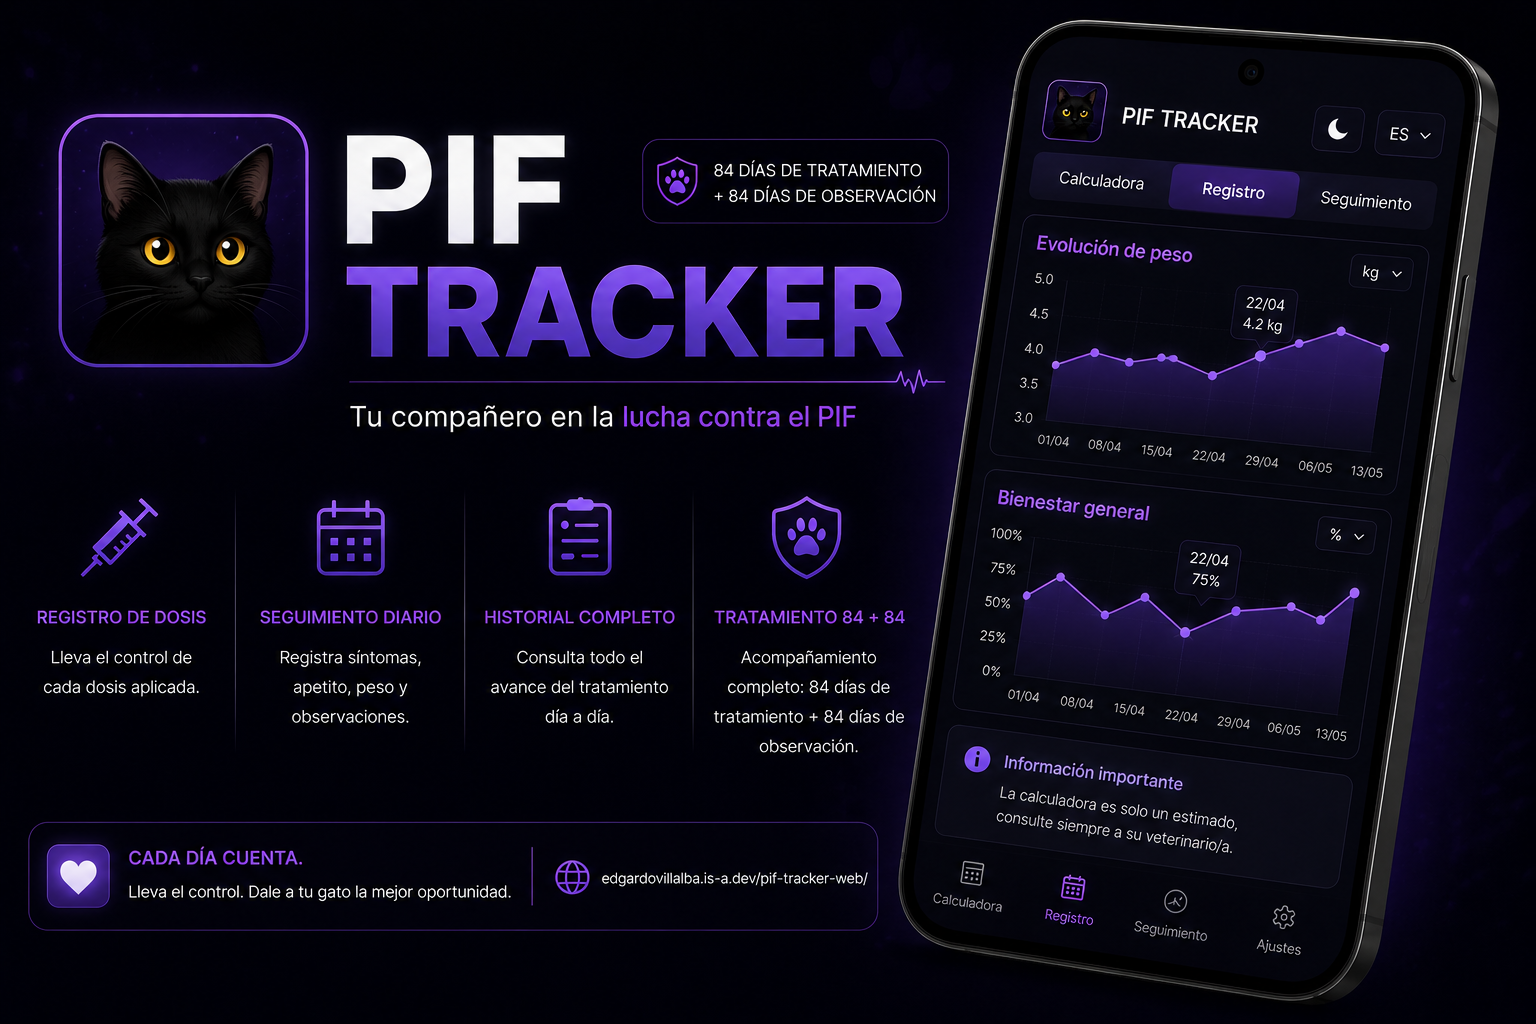
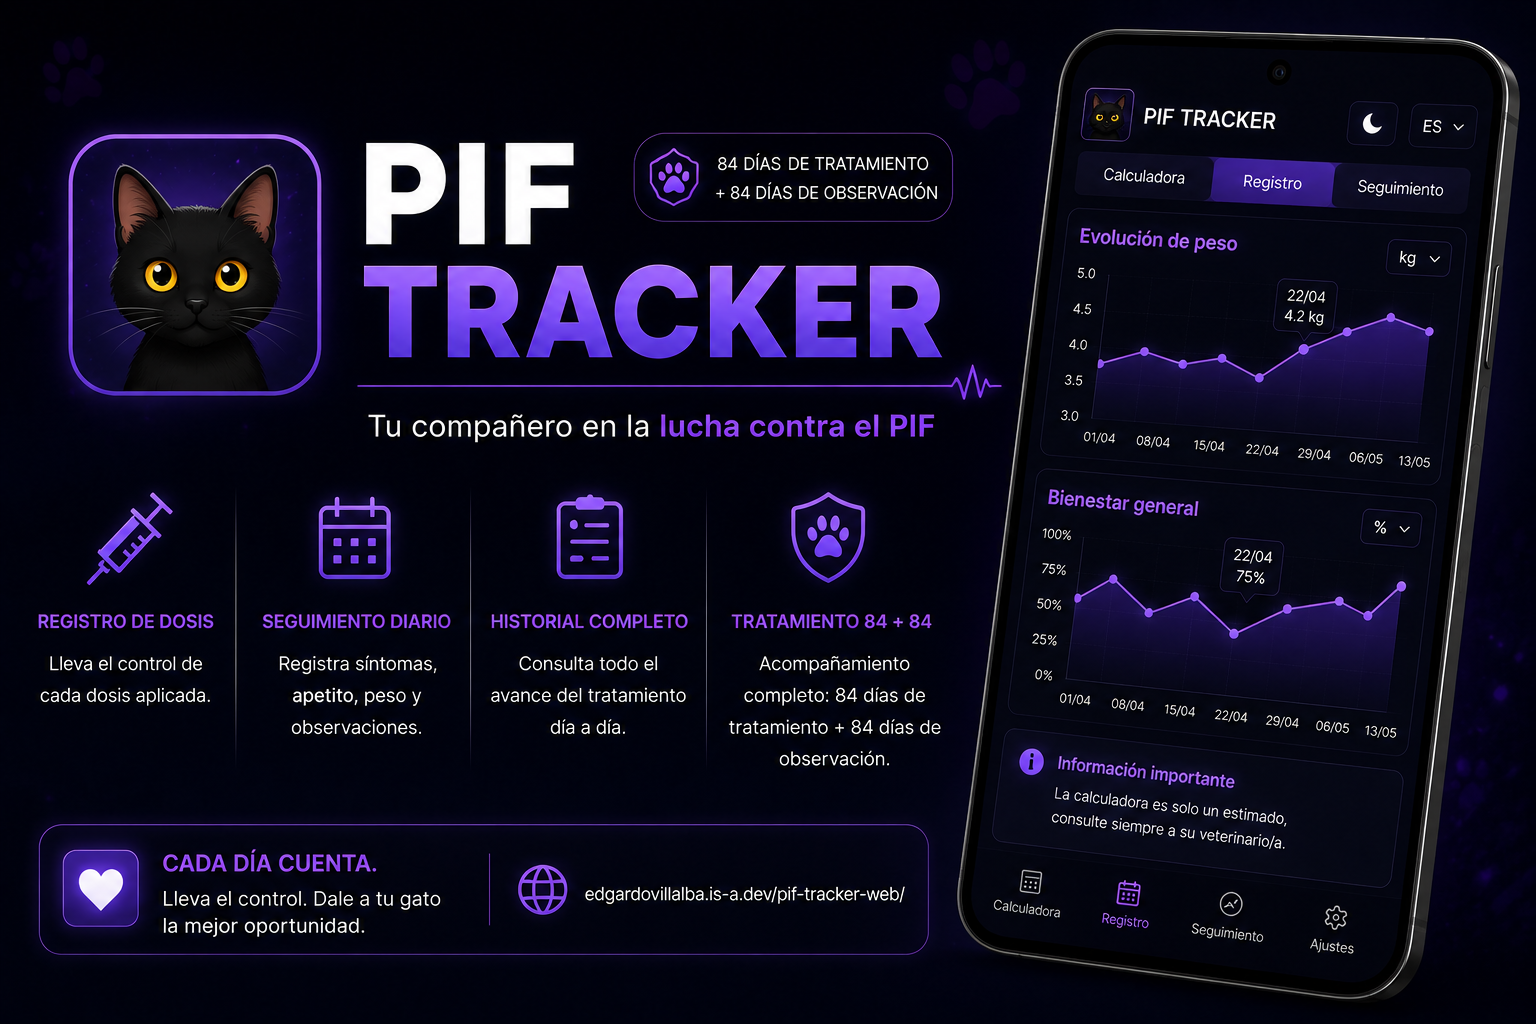
Update PIF Tracker social preview

Changed region(s): [[0.0, 0.0, 1.0, 1.0], [0.5, 0.4688, 0.5625, 0.5625], [0.0625, 0.4688, 0.125, 0.5625]]

diff --git a/index.html b/index.html
@@ -199,6 +199,54 @@
     content="PIF Tracker — aplicación para el seguimiento del tratamiento contra el PIF"
   />
 
+  <!-- ======================================================
+     OPEN GRAPH // PREVIEW SOCIAL
+     Discord · WhatsApp · LinkedIn · Facebook
+     ====================================================== -->
+
+<meta property="og:type" content="website" />
+
+<meta
+  property="og:url"
+  content="https://edgardovillalba.is-a.dev/pif-tracker-web/"
+/>
+
+<meta
+  property="og:title"
+  content="PIF Tracker — Tu compañero en la lucha contra el PIF"
+/>
+
+<meta
+  property="og:description"
+  content="Calcula dosis, registra el tratamiento y acompaña los 84 días de tratamiento + 84 días de observación."
+/>
+
+<meta
+  property="og:image"
+  content="https://edgardovillalba.is-a.dev/pif-tracker-web/pif-tracker-card.png"
+/>
+
+<!-- HTTPS explícito: útil para crawlers sociales -->
+<meta
+  property="og:image:secure_url"
+  content="https://edgardovillalba.is-a.dev/pif-tracker-web/pif-tracker-card.png"
+/>
+
+<!-- Tipo real del archivo -->
+<meta
+  property="og:image:type"
+  content="image/png"
+/>
+
+<!-- Dimensiones REALES de nuestra imagen -->
+<meta property="og:image:width" content="1536" />
+<meta property="og:image:height" content="1024" />
+
+<meta
+  property="og:image:alt"
+  content="PIF Tracker — seguimiento de tratamiento y observación del PIF"
+/>
+
 
   <!-- ======================================================
        06. ESTILOS
